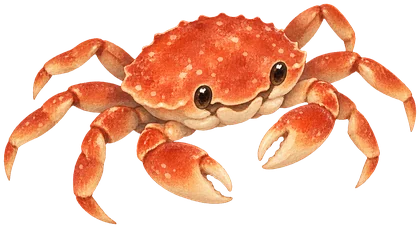
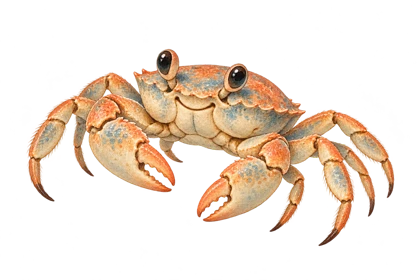
Add new illustration sets (vintage, colorful pop) and a 4-set picker
- classic / pop now hold the new vintage and colorful sets
- previous painted and outlined-pop sets are kept as painted / cartoon
- Menu: 4 thumbnail picker (web + iOS); per-set gull direction and plane slope
- Sun and moon never share the sky; boat floats with its hull submerged and sways slowly

diff --git a/app/components/P5Canvas.jsx b/app/components/P5Canvas.jsx
@@ -14,7 +14,22 @@ const MOON = { core: [240, 244, 255], glow: [150, 170, 255], reflect: [200, 215,
 const TAU = Math.PI * 2;
 // 太陽の軌道（楕円）。東(左)の水平線で昇り、真上を通って、西(右)の水平線へ沈み、夜は地平線の下を回って朝に戻る。
 // φ は軌道上の位置。時間帯の切り替えは、必ずこの向き(φが増える向き)に進む。月は太陽の反対側(φ+π)にいる。
-const THEME_PHI = { morning: TAU - 0.14, day: Math.PI / 2, evening: Math.PI + 0.083, night: Math.PI * 1.3 };
+// 月が空にいるのは、太陽が完全に沈んでから、また顔を出すまでのあいだだけ（朝夕に、太陽と月が同時に水平線の上に出ないように）
+const MOON_FROM = Math.PI + 0.73;
+const MOON_TO = TAU - 0.73;
+const THEME_PHI = {
+  morning: TAU - 0.14,
+  day: Math.PI / 2,
+  evening: Math.PI + 0.083,
+  night: MOON_FROM + 0.35 * (MOON_TO - MOON_FROM), // 月が左の高いところにいる
+};
+// 太陽の位置 φ から、月の軌道上の位置 ψ を決める。空にいない間は、水平線の下で待つ
+function moonPsi(phi) {
+  const p = ((phi % TAU) + TAU) % TAU;
+  if (p >= MOON_FROM && p <= MOON_TO) return -0.5 + ((p - MOON_FROM) / (MOON_TO - MOON_FROM)) * (Math.PI + 1.0);
+  if (p < Math.PI / 2) return Math.PI + 0.75; // 日の出のあとは、右の水平線の下
+  return p < MOON_FROM ? -0.75 : Math.PI + 0.75; // 日没までは左の水平線の下で出番を待つ
+}
 // 時間帯の並び(φの小さい順)。空・海・星などの色は、いまの φ に応じて、この隣り合う2つを混ぜる
 const KEYFRAMES = [
   ["day", THEME_PHI.day],
@@ -42,10 +57,14 @@ const STARS = Array.from({ length: 80 }, (_, i) => {
 const rgba = (c, a = c[3] ?? 1) => `rgba(${c[0] | 0}, ${c[1] | 0}, ${c[2] | 0}, ${a})`;
 
 // ---- イラスト（public/art）の描画 ----
-// 絵のセット。classic = 絵画風イラスト / pop = ポップなイラスト。絵ごとの向きの違いもここで吸収する
+// 絵のセット（4種類）。絵ごとの向きの違いもここで吸収する
 const ART_SETS = {
-  classic: { dir: "/art/classic", gullFacesLeft: false, planeSlope: 0.17 },
-  pop: { dir: "/art/pop", gullFacesLeft: true, planeSlope: 0.2 },
+  // 新しいヴィンテージ風・カラフルなポップ。飛行機は水平に飛ぶ絵なので、ほぼ水平に横切る
+  classic: { dir: "/art/classic", gullFacesLeft: false, planeSlope: 0.03 },
+  pop: { dir: "/art/pop", gullFacesLeft: false, planeSlope: 0.03 },
+  // 前の絵画風・輪郭つきのポップ（旅客機は機首を上げて上昇する）
+  painted: { dir: "/art/painted", gullFacesLeft: false, planeSlope: 0.17 },
+  cartoon: { dir: "/art/cartoon", gullFacesLeft: true, planeSlope: 0.2 },
 };
 const SPRITE_NAMES = ["fishing-boat", "flying-seagull", "sand-crab", "shore-rock", "distant-plane", "scallop-shell"];
 const clamp = (v, lo, hi) => Math.min(hi, Math.max(lo, v));
@@ -480,7 +499,7 @@ export default function P5Canvas({ theme, art }) {
 
           // ---- 太陽と月（別の天体。水平線より下は描かない） ----
           const unit = Math.min(W, H) * 0.11;
-          const phiMoon = phi + Math.PI;
+          const phiMoon = moonPsi(phi);
           const sunR = unit * pal.sunScale;
           const moonR = unit * MOON.scale;
           const bodies = [
@@ -654,22 +673,44 @@ export default function P5Canvas({ theme, art }) {
           ctx.lineTo(W, horizonY);
           ctx.stroke();
 
-          // ---- 船（水平線の近くを、ゆっくり右から左へ） ----
+          // ---- 船（水平線の近くを、ゆっくり右から左へ。船体の下は水の中に沈めて、浮かんでゆらゆら） ----
           boatClock += dt;
-          const boatK = (boatClock % 45000) / 32000;
+          const boatK = (boatClock % 66000) / 48000;
           if (boatK < 1) {
             const bw = clamp(Math.min(W, H) * 0.17, 64, 170);
             const bx = W + bw - (W + bw * 2) * boatK;
-            const by = horizonY + Math.min(14, seaH * 0.5) + Math.sin(clock * 0.0016) * bw * 0.02;
-            ctx.fillStyle = "rgba(0, 0, 0, 0.16)";
+            const waterY = horizonY + Math.min(14, seaH * 0.5);
+            const bob = Math.sin(clock * 0.0007) * bw * 0.025;
+            // 水の中の影
+            ctx.fillStyle = "rgba(20, 30, 70, 0.2)";
             ctx.beginPath();
-            ctx.ellipse(bx, by + 1, bw * 0.46, bw * 0.03, 0, 0, Math.PI * 2);
+            ctx.ellipse(bx, waterY + 3, bw * 0.5, bw * 0.035, 0, 0, Math.PI * 2);
             ctx.fill();
-            drawSprite(ctx, "fishing-boat", bx, by, bw, {
+            // 水面より下は描かない（船体の下のほうが水に沈む）
+            ctx.save();
+            ctx.beginPath();
+            ctx.rect(bx - bw, 0, bw * 2, waterY);
+            ctx.clip();
+            drawSprite(ctx, "fishing-boat", bx, waterY + bob, bw, {
               flip: true, // 船首を進行方向(左)へ
-              ay: 0.92,
-              rot: Math.sin(clock * 0.0011) * 0.03,
+              ay: 0.87,
+              rot: Math.sin(clock * 0.0005 + 1) * 0.028,
             });
+            ctx.restore();
+            // 船のまわりの水面の波紋
+            ctx.lineCap = "round";
+            ctx.lineWidth = 1.4;
+            for (let i = 0; i < 2; i++) {
+              const half = bw * (0.54 - i * 0.14);
+              ctx.strokeStyle = `rgba(255, 255, 255, ${0.55 - i * 0.2})`;
+              ctx.beginPath();
+              for (let x = -half; x <= half; x += 4) {
+                const yy = waterY + 1.5 + i * 3.5 + Math.sin(x * 0.09 + clock * 0.0009 + i) * 1.1;
+                if (x === -half) ctx.moveTo(bx + x, yy);
+                else ctx.lineTo(bx + x, yy);
+              }
+              ctx.stroke();
+            }
           }
 
           // ---- 海へ送られた言葉（飛んでいって、遠ざかりながら流れて消える） ----

diff --git a/ios/WaveMemo/SeaSimulation.swift b/ios/WaveMemo/SeaSimulation.swift
@@ -209,7 +209,7 @@ final class SeaSimulation {
     }
 
     private static let keyframes: [(Theme, Double)] = [
-        (.day, Double.pi / 2), (.evening, Double.pi + 0.083), (.night, Double.pi * 1.3),
+        (.day, Double.pi / 2), (.evening, Double.pi + 0.083), (.night, Theme.night.phi),
         (.morning, Double.pi * 2 - 0.14), (.day, Double.pi / 2 + Double.pi * 2),
     ]
 
@@ -344,7 +344,7 @@ final class SeaSimulation {
         let unit = min(g.W, g.H) * 0.11
         let sunR = unit * CGFloat(pal.sunScale)
         let moonR = unit * 0.5
-        let phiMoon = phi + Double.pi
+        let phiMoon = Theme.moonPsi(phi)
         let sunK = -3.6 * sin(phi)
         let moonK = -5 * sin(phiMoon)
         let moonFade = 0.38 + 0.62 * min(1, max(0, pal.stars)) // 昼の月は淡く
@@ -592,16 +592,33 @@ final class SeaSimulation {
 
     private func drawBoat(_ ctx: inout GraphicsContext, _ g: Geo, dt: Double) {
         boatClock += dt
-        let k = CGFloat(boatClock.truncatingRemainder(dividingBy: 45000) / 32000)
+        let k = CGFloat(boatClock.truncatingRemainder(dividingBy: 66000) / 48000)
         guard k < 1 else { return }
         let seaH = g.baseY - g.horizonY
         let bw = clamp(min(g.W, g.H) * 0.17, 64, 170)
         let bx = g.W + bw - (g.W + bw * 2) * k
-        let by = g.horizonY + min(14, seaH * 0.5) + CGFloat(sin(clock * 0.0016)) * bw * 0.02
+        let waterY = g.horizonY + min(14, seaH * 0.5)
+        let bob = CGFloat(sin(clock * 0.0007)) * bw * 0.025
+        // 水の中の影
         ctx.fill(
-            Path(ellipseIn: CGRect(x: bx - bw * 0.46, y: by + 1 - bw * 0.03, width: bw * 0.92, height: bw * 0.06)),
-            with: .color(.black.opacity(0.16)))
-        sprite(&ctx, "fishing-boat", x: bx, y: by, w: bw, ay: 0.92, flip: true, rot: sin(clock * 0.0011) * 0.03)
+            Path(ellipseIn: CGRect(x: bx - bw * 0.5, y: waterY + 3 - bw * 0.035, width: bw, height: bw * 0.07)),
+            with: .color(Color(red: 20 / 255, green: 30 / 255, blue: 70 / 255, opacity: 0.2)))
+        // 水面より下は描かない（船体の下のほうが水に沈む）
+        var c = ctx
+        c.clip(to: Path(CGRect(x: bx - bw, y: 0, width: bw * 2, height: waterY)))
+        sprite(&c, "fishing-boat", x: bx, y: waterY + bob, w: bw, ay: 0.87, flip: true, rot: sin(clock * 0.0005 + 1) * 0.028)
+        // 船のまわりの水面の波紋
+        for i in 0..<2 {
+            let half = bw * (0.54 - CGFloat(i) * 0.14)
+            var p = Path()
+            var x = -half
+            while x <= half {
+                let yy = waterY + 1.5 + CGFloat(i) * 3.5 + CGFloat(sin(Double(x) * 0.09 + clock * 0.0009 + Double(i))) * 1.1
+                if x == -half { p.move(to: CGPoint(x: bx + x, y: yy)) } else { p.addLine(to: CGPoint(x: bx + x, y: yy)) }
+                x += 4
+            }
+            ctx.stroke(p, with: .color(.white.opacity(0.55 - Double(i) * 0.2)), style: StrokeStyle(lineWidth: 1.4, lineCap: .round))
+        }
     }
 
     private func drawWords(_ ctx: inout GraphicsContext, _ g: Geo, dt: Double) {

diff --git a/ios/WaveMemo/Theme.swift b/ios/WaveMemo/Theme.swift
@@ -10,12 +10,32 @@ func color(_ v: RGBA, alpha: Double? = nil) -> Color {
     Color(.sRGB, red: v.x, green: v.y, blue: v.z, opacity: alpha ?? v.w)
 }
 
-/// 絵のセット。classic = 絵画風イラスト / pop = ポップなイラスト
-enum ArtStyle: String, CaseIterable {
-    case classic, pop
+/// 絵のセット（4種類）。classic = ヴィンテージ風 / pop = カラフルなポップ / painted = 絵画風 / cartoon = 輪郭つきのポップ
+enum ArtStyle: String, CaseIterable, Identifiable {
+    case classic, pop, painted, cartoon
 
-    var gullFacesLeft: Bool { self == .pop }
-    var planeSlope: Double { self == .pop ? 0.2 : 0.17 }
+    var id: String { rawValue }
+
+    /// カモメの絵が左向きか
+    var gullFacesLeft: Bool { self == .cartoon }
+
+    /// 飛行機が横切るときの上昇の傾き（新しい2つは水平に飛ぶ絵、前の2つは機首を上げた絵）
+    var planeSlope: Double {
+        switch self {
+        case .classic, .pop: 0.03
+        case .painted: 0.17
+        case .cartoon: 0.2
+        }
+    }
+
+    var label: String {
+        switch self {
+        case .classic: "ヴィンテージ"
+        case .pop: "カラフル"
+        case .painted: "絵画風"
+        case .cartoon: "輪郭つきポップ"
+        }
+    }
 
     func asset(_ name: String) -> String { "\(rawValue)-\(name)" }
 }
@@ -48,12 +68,26 @@ enum Theme: String, CaseIterable, Identifiable {
 
     /// 太陽の軌道（楕円）上の位置 φ。東(左)の水平線で昇り、真上を通って、西(右)の水平線へ沈み、夜は地平線の下を回って朝に戻る。
     /// 切り替えは必ず φ が増える向きに進む。月は太陽の反対側(φ+π)にいる。
+    /// 月が空にいるのは、太陽が完全に沈んでから、また顔を出すまでのあいだだけ（朝夕に、太陽と月が同時に水平線の上に出ないように）
+    static let moonFrom = Double.pi + 0.73
+    static let moonTo = Double.pi * 2 - 0.73
+
+    /// 太陽の位置 φ から、月の軌道上の位置 ψ を決める。空にいない間は、水平線の下で待つ
+    static func moonPsi(_ phi: Double) -> Double {
+        let tau = Double.pi * 2
+        var p = phi.truncatingRemainder(dividingBy: tau)
+        if p < 0 { p += tau }
+        if p >= moonFrom && p <= moonTo { return -0.5 + (p - moonFrom) / (moonTo - moonFrom) * (Double.pi + 1.0) }
+        if p < Double.pi / 2 { return Double.pi + 0.75 } // 日の出のあとは、右の水平線の下
+        return p < moonFrom ? -0.75 : Double.pi + 0.75 // 日没までは左の水平線の下で出番を待つ
+    }
+
     var phi: Double {
         switch self {
         case .morning: Double.pi * 2 - 0.14
         case .day: Double.pi / 2
         case .evening: Double.pi + 0.083
-        case .night: Double.pi * 1.3
+        case .night: Theme.moonFrom + 0.35 * (Theme.moonTo - Theme.moonFrom) // 月が左の高いところにいる
         }
     }
 }

diff --git a/app/components/Controls.jsx b/app/components/Controls.jsx
@@ -4,6 +4,14 @@ import { useEffect, useRef, useState } from "react";
 import { PALETTES, THEME_ORDER } from "../themes";
 import Guide from "./Guide";
 
+// イラストのセット（サムネイルは、どれも船の絵）。左から、新しい2つ、前の2つ
+const ART_ORDER = [
+  ["classic", "ヴィンテージ"],
+  ["pop", "カラフル"],
+  ["painted", "絵画風"],
+  ["cartoon", "輪郭つきポップ"],
+];
+
 const ICONS = {
   morning: (
     <>
@@ -134,20 +142,22 @@ export default function Controls({ theme, onChange, auto, onAutoChange, art, onA
                 </Icon>
               </button>
             </div>
+            <div className="menu-sets" role="group" aria-label="イラストのセット">
+              {ART_ORDER.map(([key, name]) => (
+                <button
+                  key={key}
+                  type="button"
+                  className="menu-set"
+                  aria-pressed={art === key}
+                  aria-label={name}
+                  title={name}
+                  onClick={() => onArtChange(key)}
+                >
+                  <img src={`/art/${key}/fishing-boat.webp`} alt="" draggable="false" />
+                </button>
+              ))}
+            </div>
             <div className="menu-actions">
-              <button
-                type="button"
-                className="menu-btn-i"
-                aria-pressed={art === "pop"}
-                aria-label="ポップなイラスト"
-                title="ポップなイラスト"
-                onClick={() => onArtChange(art === "pop" ? "classic" : "pop")}
-              >
-                <Icon>
-                  <path d="M12 3l1.9 5.1L19 10l-5.1 1.9L12 17l-1.9-5.1L5 10l5.1-1.9L12 3z" />
-                  <path d="M19 15l.7 1.8L21.5 17.5l-1.8.7L19 20l-.7-1.8-1.8-.7 1.8-.7L19 15z" />
-                </Icon>
-              </button>
               {supported && (
                 <button
                   type="button"

diff --git a/ios/WaveMemo/Controls.swift b/ios/WaveMemo/Controls.swift
@@ -49,11 +49,31 @@ struct Controls: View {
         }
     }
 
+    /// イラストのセットの切り替え（サムネイルは、どれも船の絵）
+    private var setRow: some View {
+        HStack(spacing: 4) {
+            ForEach(ArtStyle.allCases) { a in
+                let selected = art == a
+                Button {
+                    Haptics.tap()
+                    withAnimation(.easeInOut(duration: 0.25)) { art = a }
+                } label: {
+                    Image(a.asset("fishing-boat"))
+                        .resizable()
+                        .scaledToFit()
+                        .padding(7)
+                        .frame(maxWidth: .infinity, minHeight: 46, maxHeight: 46)
+                        .background(selected ? Color.white.opacity(0.88) : Color.white.opacity(0.1), in: RoundedRectangle(cornerRadius: 14))
+                        .overlay(RoundedRectangle(cornerRadius: 14).strokeBorder(selected ? Color.white : .clear, lineWidth: 2))
+                }
+                .accessibilityLabel(a.label)
+                .accessibilityAddTraits(selected ? .isSelected : [])
+            }
+        }
+    }
+
     private var actionRow: some View {
         HStack(spacing: 4) {
-            iconButton("sparkles", selected: art == .pop, label: "ポップなイラスト", group: "art") {
-                withAnimation(.easeInOut(duration: 0.25)) { art = art == .pop ? .classic : .pop }
-            }
             iconButton("questionmark.circle", selected: false, label: "ガイド", group: "guide") { onGuide() }
         }
     }
@@ -62,6 +82,8 @@ struct Controls: View {
         let shape = RoundedRectangle(cornerRadius: 20)
         return VStack(spacing: 6) {
             themeRow
+            Rectangle().fill(.white.opacity(0.16)).frame(height: 1)
+            setRow
             Rectangle().fill(.white.opacity(0.16)).frame(height: 1)
             actionRow
         }

diff --git a/ios/WaveMemo/GuideView.swift b/ios/WaveMemo/GuideView.swift
@@ -10,7 +10,7 @@ struct GuideView: View {
         ("波がさらう", "ふだんの波は、水平線の近くで静かに寄せては返します。ときどき大きな波が砂浜まで下りてきて、上の行から言葉をさらっていきます。どこまで届くかは、そのときしだいです。"),
         ("言葉を海へ", "入力欄に言葉があるときは、水平線の下に「言葉を海へ」のボタンが出ます。押すと、言葉が入力欄を離れて、水平線のほうへ飛んでいき、波に乗って流れていきます。入力欄はきれいになります。"),
         ("朝・昼・夕・晩", "メニューから、時間帯を選べます。夜になるときは、太陽が沈んで、月が昇ります。"),
-        ("ポップ / 絵画風", "船やカモメ、カニなどのイラストの雰囲気を、ポップなものと、絵画のようなものから選べます。"),
+        ("イラストのセット", "船やカモメ、カニなどのイラストの雰囲気を、メニューの4つのサムネイルから選べます。ヴィンテージ風、カラフルなポップ、絵画風、輪郭つきのポップです。"),
     ]
 
     var body: some View {

diff --git a/app/globals.css b/app/globals.css
@@ -220,6 +220,47 @@ body {
   flex: 1;
 }
 
+.menu-sets {
+  display: grid;
+  grid-template-columns: repeat(4, 1fr);
+  gap: 4px;
+  padding-top: 6px;
+  border-top: 1px solid rgba(255, 255, 255, 0.16);
+}
+
+.menu-set {
+  display: grid;
+  place-items: center;
+  height: 46px;
+  padding: 0;
+  border: 2px solid transparent;
+  border-radius: 14px;
+  background: rgba(255, 255, 255, 0.1);
+  cursor: pointer;
+  transition: background 0.25s, border-color 0.25s, transform 0.2s;
+}
+
+.menu-set img {
+  width: 78%;
+  height: 78%;
+  object-fit: contain;
+  pointer-events: none;
+}
+
+.menu-set:hover {
+  background: rgba(255, 255, 255, 0.2);
+}
+
+.menu-set[aria-pressed="true"] {
+  background: rgba(255, 255, 255, 0.88);
+  border-color: #fff;
+}
+
+.menu-set:focus-visible {
+  outline: 2px solid #fff;
+  outline-offset: 2px;
+}
+
 .menu-actions {
   padding-top: 6px;
   border-top: 1px solid rgba(255, 255, 255, 0.16);

diff --git a/app/components/Guide.jsx b/app/components/Guide.jsx
@@ -24,8 +24,8 @@ const SECTIONS = [
     body: "メニューから、時間帯を選べます。夜になるときは、太陽が沈んで、月が昇ります。",
   },
   {
-    title: "ポップ / 絵画風",
-    body: "船やカモメ、カニなどのイラストの雰囲気を、ポップなものと、絵画のようなものから選べます。",
+    title: "イラストのセット",
+    body: "船やカモメ、カニなどのイラストの雰囲気を、メニューの4つのサムネイルから選べます。ヴィンテージ風、カラフルなポップ、絵画風、輪郭つきのポップです。",
   },
 ];
 
